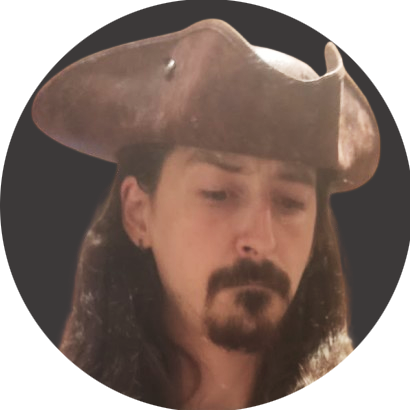
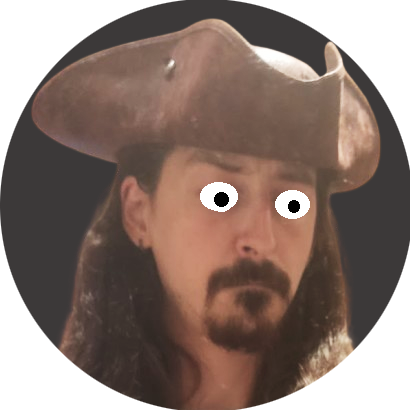
Implementados ojos saltones

Changed region(s): [[0.4683, 0.439, 0.5854, 0.5268], [0.6732, 0.439, 0.761, 0.5561]]

diff --git a/index.html b/index.html
@@ -88,7 +88,7 @@
         #enol-container {
             position: absolute;
             top: 75%;
-            left: 20%;
+            left: 30%;
             transform: translate(-50%, -50%);
             display: flex;
             align-items: center;
